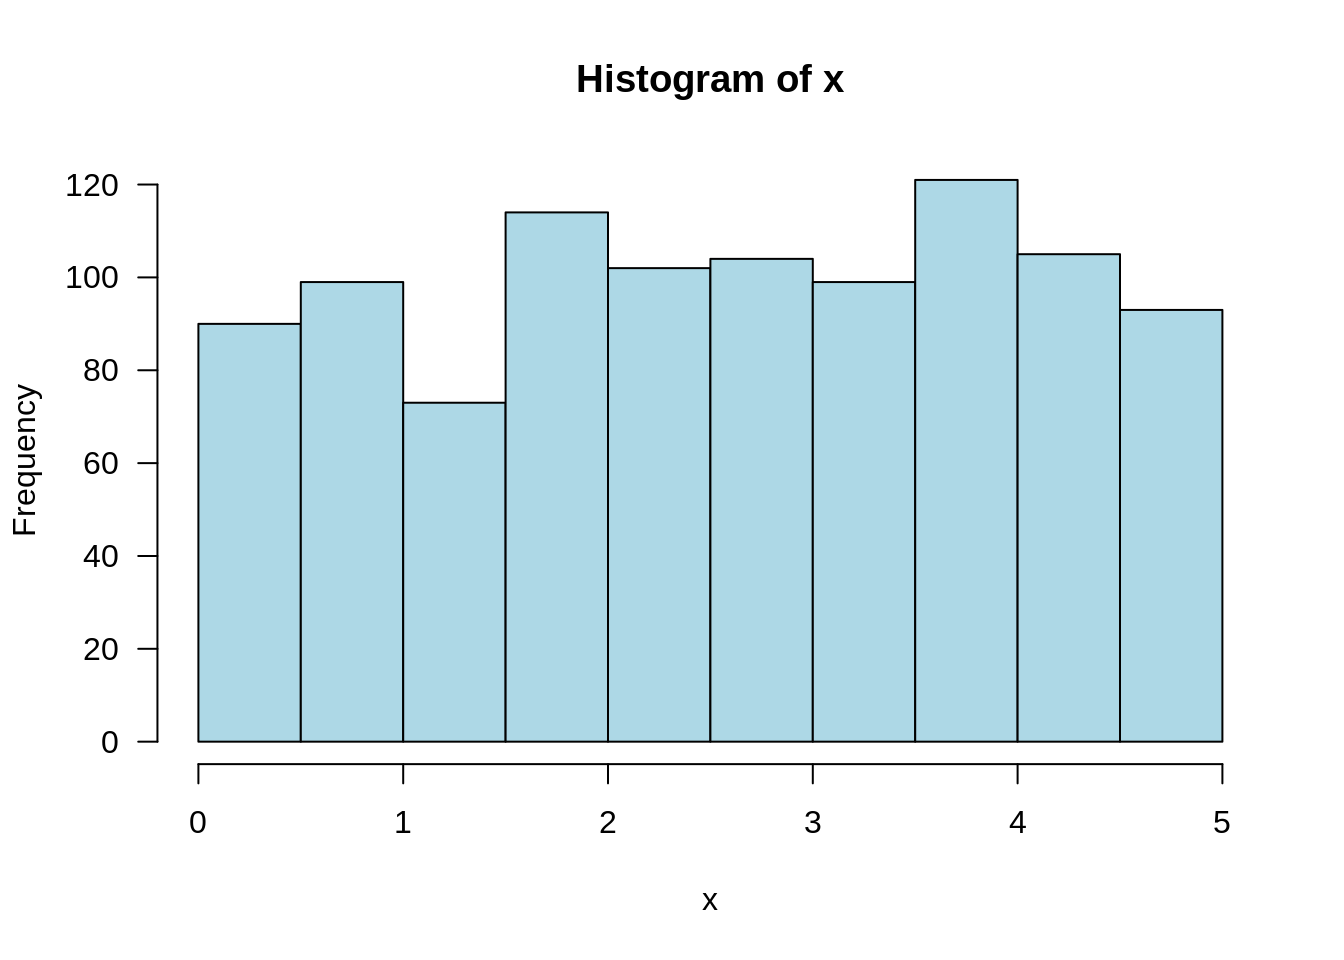
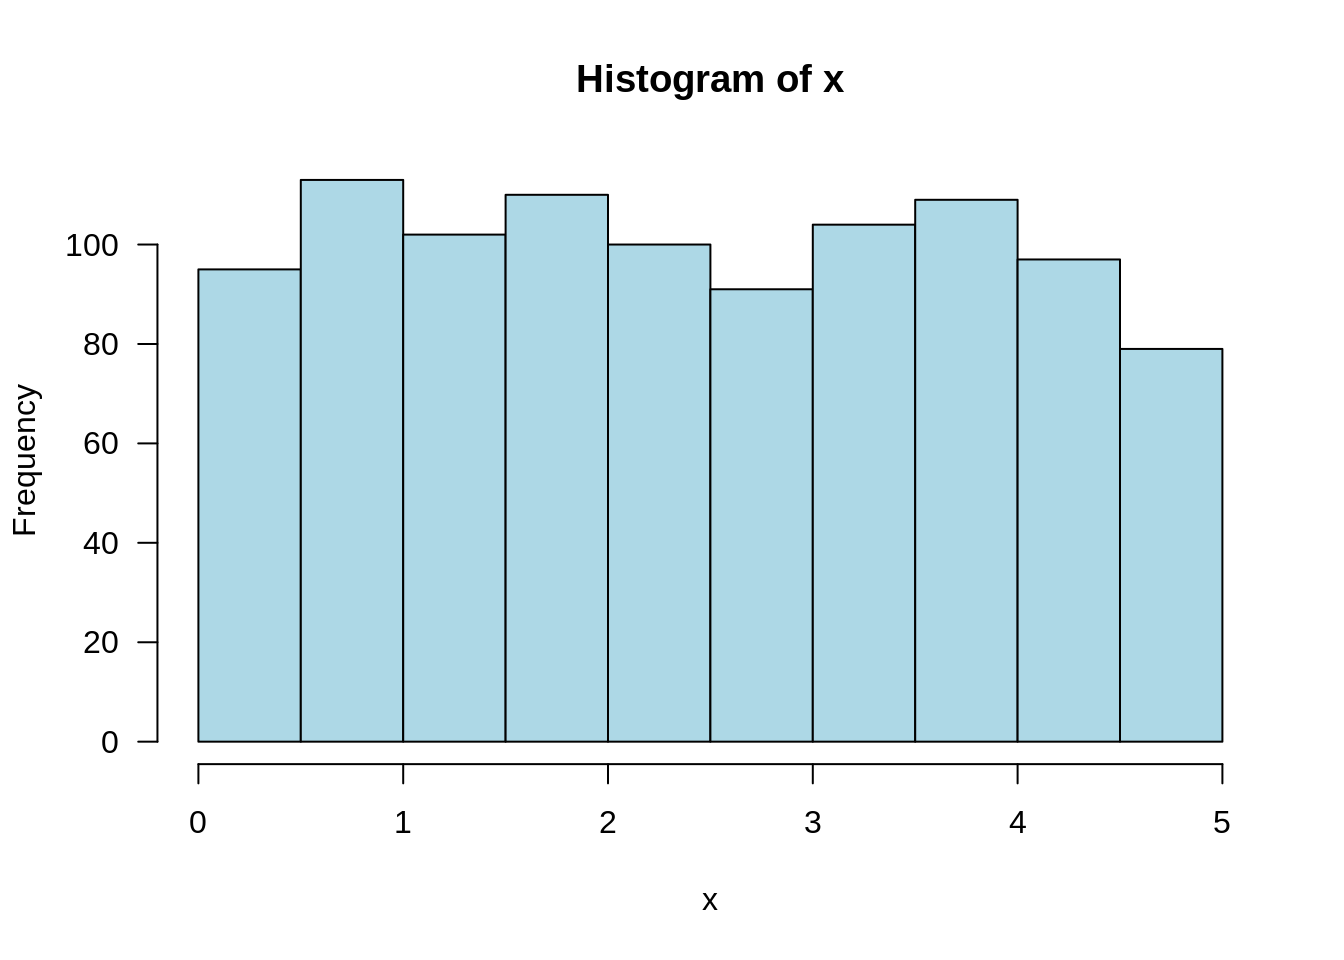
Deploying to gh-pages from @ jtr13/1201@39d6c5860b00592d9c924495f6e9cd3fc6d38ec3 🚀

diff --git a/ch.-4-continuous-random-variables-and-probability-distributions.html b/ch.-4-continuous-random-variables-and-probability-distributions.html
@@ -7,7 +7,7 @@
 <title>Ch. 4 Continuous Random Variables and Probability Distributions | Stat 1201 Resources</title>
 <meta name="author" content="Joyce Robbins">
 <meta name="description" content="Sections covered: 4.1, 4.2, 4.3 4.1 Probability density functions  R Simulating a uniform distribution Randomly choose one number from the distribution: \(f(x) = .2\) for \(0 \leq x \leq 5\), 0...">
-<meta name="generator" content="bookdown 0.25 with bs4_book()">
+<meta name="generator" content="bookdown 0.26 with bs4_book()">
 <meta property="og:title" content="Ch. 4 Continuous Random Variables and Probability Distributions | Stat 1201 Resources">
 <meta property="og:type" content="book">
 <meta property="og:url" content="https://jtr13.github.io/1201/ch.-4-continuous-random-variables-and-probability-distributions.html">
@@ -80,12 +80,12 @@
 <p><span class="math inline">\(f(x) = .2\)</span> for <span class="math inline">\(0 \leq x \leq 5\)</span>, 0 otherwise.</p>
 <div class="sourceCode" id="cb158"><pre class="downlit sourceCode r">
 <code class="sourceCode R"><span class="fu"><a href="https://rdrr.io/r/stats/Uniform.html">runif</a></span><span class="op">(</span>n <span class="op">=</span> <span class="fl">1</span>, min <span class="op">=</span> <span class="fl">0</span>, max <span class="op">=</span> <span class="fl">5</span><span class="op">)</span></code></pre></div>
-<pre><code>## [1] 2.117394</code></pre>
+<pre><code>## [1] 4.534049</code></pre>
 <p>Take the average of 1000 picks:</p>
 <div class="sourceCode" id="cb160"><pre class="downlit sourceCode r">
 <code class="sourceCode R"><span class="va">x</span> <span class="op">&lt;-</span> <span class="fu"><a href="https://rdrr.io/r/stats/Uniform.html">runif</a></span><span class="op">(</span>n <span class="op">=</span> <span class="fl">1000</span>, min <span class="op">=</span> <span class="fl">0</span>, max <span class="op">=</span> <span class="fl">5</span><span class="op">)</span>
 <span class="fu"><a href="https://rdrr.io/r/base/mean.html">mean</a></span><span class="op">(</span><span class="va">x</span><span class="op">)</span></code></pre></div>
-<pre><code>## [1] 2.563177</code></pre>
+<pre><code>## [1] 2.447208</code></pre>
 <p>Draw a histogram of the 1000 picks:</p>
 <div class="sourceCode" id="cb162"><pre class="downlit sourceCode r">
 <code class="sourceCode R"><span class="fu"><a href="https://rdrr.io/r/graphics/hist.html">hist</a></span><span class="op">(</span><span class="va">x</span>, las <span class="op">=</span> <span class="fl">1</span>, col <span class="op">=</span> <span class="st">"lightblue"</span><span class="op">)</span></code></pre></div>
@@ -268,7 +268,7 @@ aid, sothat <em>p = .25</em>. What is the probability that at most 10 students r
 <footer class="bg-primary text-light mt-5"><div class="container"><div class="row">
 
   <div class="col-12 col-md-6 mt-3">
-    <p>"<strong>Stat 1201 Resources</strong>" was written by Joyce Robbins. It was last built on 2022-04-11.</p>
+    <p>"<strong>Stat 1201 Resources</strong>" was written by Joyce Robbins. It was last built on 2022-04-23.</p>
   </div>
 
   <div class="col-12 col-md-6 mt-3">

diff --git a/ch.-1-descriptive-statistics.html b/ch.-1-descriptive-statistics.html
@@ -7,7 +7,7 @@
 <title>Ch. 1 Descriptive Statistics | Stat 1201 Resources</title>
 <meta name="author" content="Joyce Robbins">
 <meta name="description" content="Sections covered: all 1.1 Populations, Samples, and Processes To generate a random sample of data, we use the function sample(). Ex: To generate a sample of 6 numbers from the integers between 1...">
-<meta name="generator" content="bookdown 0.25 with bs4_book()">
+<meta name="generator" content="bookdown 0.26 with bs4_book()">
 <meta property="og:title" content="Ch. 1 Descriptive Statistics | Stat 1201 Resources">
 <meta property="og:type" content="book">
 <meta property="og:url" content="https://jtr13.github.io/1201/ch.-1-descriptive-statistics.html">
@@ -75,12 +75,12 @@
 <p><strong>Ex:</strong> To generate a sample of 6 numbers from the integers between 1 and 20:</p>
 <div class="sourceCode" id="cb26"><pre class="downlit sourceCode r">
 <code class="sourceCode R"><span class="fu"><a href="https://rdrr.io/r/base/sample.html">sample</a></span><span class="op">(</span>x <span class="op">=</span> <span class="fl">1</span><span class="op">:</span><span class="fl">20</span>, size  <span class="op">=</span> <span class="fl">6</span><span class="op">)</span></code></pre></div>
-<pre><code>## [1]  3  7 13  9 14 10</code></pre>
+<pre><code>## [1]  5  6 20 12 17 11</code></pre>
 <p>Note: this syntax assumes that there is no replacement (it won’t pick the same number twice).
 If you want to sample <em>with</em> replacement use the following:</p>
 <div class="sourceCode" id="cb28"><pre class="downlit sourceCode r">
 <code class="sourceCode R"><span class="fu"><a href="https://rdrr.io/r/base/sample.html">sample</a></span><span class="op">(</span>x <span class="op">=</span> <span class="fl">1</span><span class="op">:</span><span class="fl">20</span>, size <span class="op">=</span> <span class="fl">8</span>, replace <span class="op">=</span> <span class="cn">TRUE</span><span class="op">)</span></code></pre></div>
-<pre><code>## [1] 13 20  2 20 10 10 18 17</code></pre>
+<pre><code>## [1]  9 14  5 16 14 15  9 11</code></pre>
 </div>
 <div id="pictorial-and-tabular-methods-in-descriptive-statistics" class="section level2 unnumbered">
 <h2>1.2 Pictorial and Tabular Methods in Descriptive Statistics<a class="anchor" aria-label="anchor" href="#pictorial-and-tabular-methods-in-descriptive-statistics"><i class="fas fa-link"></i></a>
@@ -366,7 +366,7 @@ We use an almost identical syntax to generate density histograms, but add a cond
 <footer class="bg-primary text-light mt-5"><div class="container"><div class="row">
 
   <div class="col-12 col-md-6 mt-3">
-    <p>"<strong>Stat 1201 Resources</strong>" was written by Joyce Robbins. It was last built on 2022-04-11.</p>
+    <p>"<strong>Stat 1201 Resources</strong>" was written by Joyce Robbins. It was last built on 2022-04-23.</p>
   </div>
 
   <div class="col-12 col-md-6 mt-3">

diff --git a/ch.-5-joint-probability.html b/ch.-5-joint-probability.html
@@ -7,7 +7,7 @@
 <title>Ch. 5 Joint Probability | Stat 1201 Resources</title>
 <meta name="author" content="Joyce Robbins">
 <meta name="description" content="Sections covered: 5.1, 5.2 5.1 Jointly Distributed Random Variables Skip everything but “Two Discrete Random Variables” pp. 199-200  5.2 Expected Values, Covariance, and Correlation Skip...">
-<meta name="generator" content="bookdown 0.25 with bs4_book()">
+<meta name="generator" content="bookdown 0.26 with bs4_book()">
 <meta property="og:title" content="Ch. 5 Joint Probability | Stat 1201 Resources">
 <meta property="og:type" content="book">
 <meta property="og:url" content="https://jtr13.github.io/1201/ch.-5-joint-probability.html">
@@ -77,7 +77,8 @@
 <h2>5.2 Expected Values, Covariance, and Correlation<a class="anchor" aria-label="anchor" href="#expected-values-covariance-and-correlation"><i class="fas fa-link"></i></a>
 </h2>
 <p>Skip <em>everything but</em> “Covariance” pp. 214-215 and “Correlation” pp. 216-218</p>
-<p>(In both sections, skip double integrals)</p>
+<p>In both sections, skip double integrals. Focus on the concepts of covariance and correlation. The only formula you need to know is:</p>
+<p><span class="math inline">\(\rho_{X, Y} = \frac{Cov(X, Y)}{\sigma_X \cdot \sigma_Y}\)</span></p>
 <script src="https://d3js.org/d3.v4.min.js"></script><div id="corr" style="width: 600px">
 <div id="interactive" class="section level3 unnumbered">
 <h3>
@@ -145,7 +146,7 @@ Two points are needed to calculate r.
 <footer class="bg-primary text-light mt-5"><div class="container"><div class="row">
 
   <div class="col-12 col-md-6 mt-3">
-    <p>"<strong>Stat 1201 Resources</strong>" was written by Joyce Robbins. It was last built on 2022-04-11.</p>
+    <p>"<strong>Stat 1201 Resources</strong>" was written by Joyce Robbins. It was last built on 2022-04-23.</p>
   </div>
 
   <div class="col-12 col-md-6 mt-3">

diff --git a/ch.-7-statistical-intervals-based-on-a-single-sample.html b/ch.-7-statistical-intervals-based-on-a-single-sample.html
@@ -7,7 +7,7 @@
 <title>Ch. 7 Statistical Intervals Based on a Single Sample | Stat 1201 Resources</title>
 <meta name="author" content="Joyce Robbins">
 <meta name="description" content="Sections covered: 7.1, 7.2, 7.3 7.1 Basic Properties of Confidence Intervals Skip: “Deriving a Confidence Interval”, pp. 282-284; “Bootstrap Confidence Intervals”, p. 284  7.2 Large-Sample...">
-<meta name="generator" content="bookdown 0.25 with bs4_book()">
+<meta name="generator" content="bookdown 0.26 with bs4_book()">
 <meta property="og:title" content="Ch. 7 Statistical Intervals Based on a Single Sample | Stat 1201 Resources">
 <meta property="og:type" content="book">
 <meta property="og:url" content="https://jtr13.github.io/1201/ch.-7-statistical-intervals-based-on-a-single-sample.html">
@@ -117,7 +117,7 @@
 <footer class="bg-primary text-light mt-5"><div class="container"><div class="row">
 
   <div class="col-12 col-md-6 mt-3">
-    <p>"<strong>Stat 1201 Resources</strong>" was written by Joyce Robbins. It was last built on 2022-04-11.</p>
+    <p>"<strong>Stat 1201 Resources</strong>" was written by Joyce Robbins. It was last built on 2022-04-23.</p>
   </div>
 
   <div class="col-12 col-md-6 mt-3">

diff --git a/ch.-8-tests-of-hypotheses-based-on-a-single-sample.html b/ch.-8-tests-of-hypotheses-based-on-a-single-sample.html
@@ -7,7 +7,7 @@
 <title>Ch. 8 Tests of Hypotheses Based on a Single Sample | Stat 1201 Resources</title>
 <meta name="author" content="Joyce Robbins">
 <meta name="description" content="Sections covered: 8.1, 8.2, 8.3, 8.4 8.1 Hypotheses and Test Procedures Note: We will cover the beginning of the section and then return to errors in hypothesis testing (beginning on page 317)...">
-<meta name="generator" content="bookdown 0.25 with bs4_book()">
+<meta name="generator" content="bookdown 0.26 with bs4_book()">
 <meta property="og:title" content="Ch. 8 Tests of Hypotheses Based on a Single Sample | Stat 1201 Resources">
 <meta property="og:type" content="book">
 <meta property="og:url" content="https://jtr13.github.io/1201/ch.-8-tests-of-hypotheses-based-on-a-single-sample.html">
@@ -175,7 +175,7 @@
 <footer class="bg-primary text-light mt-5"><div class="container"><div class="row">
 
   <div class="col-12 col-md-6 mt-3">
-    <p>"<strong>Stat 1201 Resources</strong>" was written by Joyce Robbins. It was last built on 2022-04-11.</p>
+    <p>"<strong>Stat 1201 Resources</strong>" was written by Joyce Robbins. It was last built on 2022-04-23.</p>
   </div>
 
   <div class="col-12 col-md-6 mt-3">

diff --git a/ch.-9-inferences-based-on-two-samples.html b/ch.-9-inferences-based-on-two-samples.html
@@ -7,7 +7,7 @@
 <title>Ch. 9 Inferences Based on Two Samples | Stat 1201 Resources</title>
 <meta name="author" content="Joyce Robbins">
 <meta name="description" content="Sections covered: 9.1, 9.2, 9.3, 9.4 9.1 \(z\) Tests and CI’s for a Difference Between Two Population Means (Cases 1 &amp; 2) Skip: \(\beta\) and the Choice of Sample Size (pp. 366-367) R Since you...">
-<meta name="generator" content="bookdown 0.25 with bs4_book()">
+<meta name="generator" content="bookdown 0.26 with bs4_book()">
 <meta property="og:title" content="Ch. 9 Inferences Based on Two Samples | Stat 1201 Resources">
 <meta property="og:type" content="book">
 <meta property="og:url" content="https://jtr13.github.io/1201/ch.-9-inferences-based-on-two-samples.html">
@@ -243,7 +243,7 @@
 <footer class="bg-primary text-light mt-5"><div class="container"><div class="row">
 
   <div class="col-12 col-md-6 mt-3">
-    <p>"<strong>Stat 1201 Resources</strong>" was written by Joyce Robbins. It was last built on 2022-04-11.</p>
+    <p>"<strong>Stat 1201 Resources</strong>" was written by Joyce Robbins. It was last built on 2022-04-23.</p>
   </div>
 
   <div class="col-12 col-md-6 mt-3">

diff --git a/ch.-3-discrete-distributions.html b/ch.-3-discrete-distributions.html
@@ -7,7 +7,7 @@
 <title>Ch. 3 Discrete Distributions | Stat 1201 Resources</title>
 <meta name="author" content="Joyce Robbins">
 <meta name="description" content="Sections covered: 3.1 - 3.6 Skip: 3.6 “The Poisson Distribution as a Limit” (pp. 132-33) and “The Poisson Process” (pp. 134-135) There is no direct way in R to calculate the mean and variance of a...">
-<meta name="generator" content="bookdown 0.25 with bs4_book()">
+<meta name="generator" content="bookdown 0.26 with bs4_book()">
 <meta property="og:title" content="Ch. 3 Discrete Distributions | Stat 1201 Resources">
 <meta property="og:type" content="book">
 <meta property="og:url" content="https://jtr13.github.io/1201/ch.-3-discrete-distributions.html">
@@ -363,7 +363,7 @@
 <footer class="bg-primary text-light mt-5"><div class="container"><div class="row">
 
   <div class="col-12 col-md-6 mt-3">
-    <p>"<strong>Stat 1201 Resources</strong>" was written by Joyce Robbins. It was last built on 2022-04-11.</p>
+    <p>"<strong>Stat 1201 Resources</strong>" was written by Joyce Robbins. It was last built on 2022-04-23.</p>
   </div>
 
   <div class="col-12 col-md-6 mt-3">

diff --git a/ch.-2-conditional-probability.html b/ch.-2-conditional-probability.html
@@ -7,7 +7,7 @@
 <title>Ch. 2 Conditional Probability | Stat 1201 Resources</title>
 <meta name="author" content="Joyce Robbins">
 <meta name="description" content="Sections covered: 2.4, 2.5 (Section 2.5 was covered earlier; now we’re adding the definition of independence in terms of conditional probability on p. 85: “Two events A and B are independent if...">
-<meta name="generator" content="bookdown 0.25 with bs4_book()">
+<meta name="generator" content="bookdown 0.26 with bs4_book()">
 <meta property="og:title" content="Ch. 2 Conditional Probability | Stat 1201 Resources">
 <meta property="og:type" content="book">
 <meta property="og:url" content="https://jtr13.github.io/1201/ch.-2-conditional-probability.html">
@@ -105,7 +105,7 @@
 <footer class="bg-primary text-light mt-5"><div class="container"><div class="row">
 
   <div class="col-12 col-md-6 mt-3">
-    <p>"<strong>Stat 1201 Resources</strong>" was written by Joyce Robbins. It was last built on 2022-04-11.</p>
+    <p>"<strong>Stat 1201 Resources</strong>" was written by Joyce Robbins. It was last built on 2022-04-23.</p>
   </div>
 
   <div class="col-12 col-md-6 mt-3">

diff --git a/404.html b/404.html
@@ -7,7 +7,7 @@
 <title>Page not found | Stat 1201 Resources</title>
 <meta name="author" content="Joyce Robbins">
 <meta name="description" content="The page you requested cannot be found (perhaps it was moved or renamed). You may want to try searching to find the page's new location, or use the table of contents to find the page you are...">
-<meta name="generator" content="bookdown 0.25 with bs4_book()">
+<meta name="generator" content="bookdown 0.26 with bs4_book()">
 <meta property="og:title" content="Page not found | Stat 1201 Resources">
 <meta property="og:type" content="book">
 <meta property="og:url" content="https://jtr13.github.io/1201/404.html">
@@ -83,7 +83,7 @@ the table of contents to find the page you are looking for.</p>
 <footer class="bg-primary text-light mt-5"><div class="container"><div class="row">
 
   <div class="col-12 col-md-6 mt-3">
-    <p>"<strong>Stat 1201 Resources</strong>" was written by Joyce Robbins. It was last built on 2022-04-11.</p>
+    <p>"<strong>Stat 1201 Resources</strong>" was written by Joyce Robbins. It was last built on 2022-04-23.</p>
   </div>
 
   <div class="col-12 col-md-6 mt-3">

diff --git a/ch.-12-linear-regression.html b/ch.-12-linear-regression.html
@@ -7,7 +7,7 @@
 <title>Ch. 12 Linear Regression | Stat 1201 Resources</title>
 <meta name="author" content="Joyce Robbins">
 <meta name="description" content="Sections covered: 12.1, 12.2, 12.5 12.1 The Simple Linear Regression Model  12.2 Estimating Model Parameters  Resources Interactive Visualization: Linear Regression Try fitting the least squares...">
-<meta name="generator" content="bookdown 0.25 with bs4_book()">
+<meta name="generator" content="bookdown 0.26 with bs4_book()">
 <meta property="og:title" content="Ch. 12 Linear Regression | Stat 1201 Resources">
 <meta property="og:type" content="book">
 <meta property="og:url" content="https://jtr13.github.io/1201/ch.-12-linear-regression.html">
@@ -290,7 +290,7 @@
 <footer class="bg-primary text-light mt-5"><div class="container"><div class="row">
 
   <div class="col-12 col-md-6 mt-3">
-    <p>"<strong>Stat 1201 Resources</strong>" was written by Joyce Robbins. It was last built on 2022-04-11.</p>
+    <p>"<strong>Stat 1201 Resources</strong>" was written by Joyce Robbins. It was last built on 2022-04-23.</p>
   </div>
 
   <div class="col-12 col-md-6 mt-3">

diff --git a/ch.-5-random-samples.html b/ch.-5-random-samples.html
@@ -7,7 +7,7 @@
 <title>Ch. 5 Random Samples | Stat 1201 Resources</title>
 <meta name="author" content="Joyce Robbins">
 <meta name="description" content="Sections covered: 5.3, 5.4, 5.5 5.4 The Distribution of the Sample Mean Central Limit Theorem visualization: http://mfviz.com/central-limit/  5.5 The Distribution of a Linear Combination Skip (for...">
-<meta name="generator" content="bookdown 0.25 with bs4_book()">
+<meta name="generator" content="bookdown 0.26 with bs4_book()">
 <meta property="og:title" content="Ch. 5 Random Samples | Stat 1201 Resources">
 <meta property="og:type" content="book">
 <meta property="og:url" content="https://jtr13.github.io/1201/ch.-5-random-samples.html">
@@ -106,7 +106,7 @@
 <footer class="bg-primary text-light mt-5"><div class="container"><div class="row">
 
   <div class="col-12 col-md-6 mt-3">
-    <p>"<strong>Stat 1201 Resources</strong>" was written by Joyce Robbins. It was last built on 2022-04-11.</p>
+    <p>"<strong>Stat 1201 Resources</strong>" was written by Joyce Robbins. It was last built on 2022-04-23.</p>
   </div>
 
   <div class="col-12 col-md-6 mt-3">

diff --git a/ch.-2-probability.html b/ch.-2-probability.html
@@ -7,7 +7,7 @@
 <title>Ch. 2 Probability | Stat 1201 Resources</title>
 <meta name="author" content="Joyce Robbins">
 <meta name="description" content="Sections covered: 2.1, 2.2, 2.3, 2.5 (2.4 will be covered later in the semester) 2.1 Sample Spaces and Events  Humor  Source: https://twitter.com/bcrypt/status/1074415553266122752/photo/1  2.2...">
-<meta name="generator" content="bookdown 0.25 with bs4_book()">
+<meta name="generator" content="bookdown 0.26 with bs4_book()">
 <meta property="og:title" content="Ch. 2 Probability | Stat 1201 Resources">
 <meta property="og:type" content="book">
 <meta property="og:url" content="https://jtr13.github.io/1201/ch.-2-probability.html">
@@ -151,7 +151,7 @@
 <footer class="bg-primary text-light mt-5"><div class="container"><div class="row">
 
   <div class="col-12 col-md-6 mt-3">
-    <p>"<strong>Stat 1201 Resources</strong>" was written by Joyce Robbins. It was last built on 2022-04-11.</p>
+    <p>"<strong>Stat 1201 Resources</strong>" was written by Joyce Robbins. It was last built on 2022-04-23.</p>
   </div>
 
   <div class="col-12 col-md-6 mt-3">
